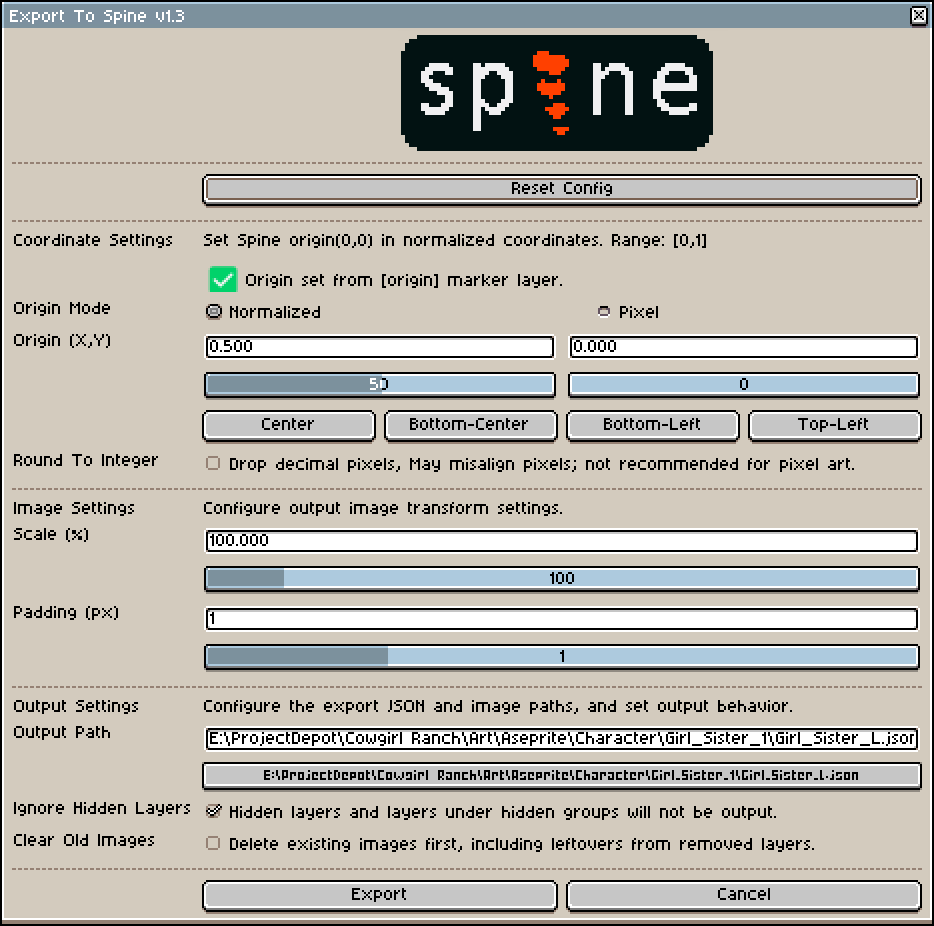
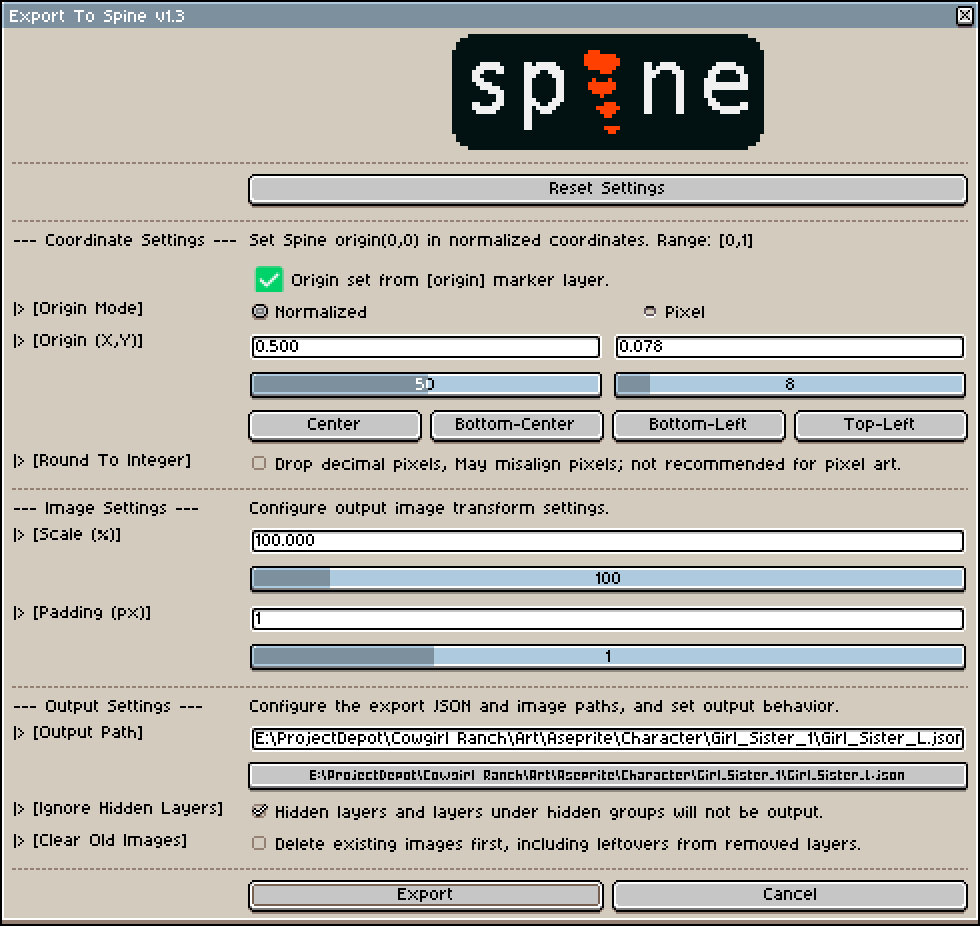
[Aseprite] Update README to v1.3.1 - Update the document content to v1.3.1 - Optimize UI layout and display.

diff --git a/aseprite/README.md b/aseprite/README.md
@@ -6,11 +6,15 @@ ___
 
 [中文版 文档](README_cn.md)
 
+<div align="center">
+  <img src="Images/Spine-Logo.png" width="60%" alt="Spine Logo">
+</div>
+
 # aseprite-to-spine
 
 ## Lua Script for importing Aseprite projects into Spine
 
-## v1.3
+## v1.3.1
 
 ### Installation
 
@@ -69,7 +73,6 @@ After following these steps, the "Prepare-For-Spine" script should show up in th
 
 * Action Buttons: Start export using the current configuration.
   * Export Button: Starts the export process with the configured options.
-    * After export completes, click the [Open File Folder] button to open the directory containing the exported files.
   * Cancel Button: Closes the options dialog without exporting.
 
 #### 「Spine Import」
@@ -97,6 +100,25 @@ After following these steps, the "Prepare-For-Spine" script should show up in th
 * Import button: Start importing with the current configuration.
 * Cancel button: Close the dialog and cancel the import.
 
+#### 「Spine Settings」
+
+When creating pixel art, it is usually necessary to turn off smoothing/anti-aliasing to maintain the clarity of the pixel grains.
+
+1. Click the Spine icon in the upper left corner to open the menu and select **[Settings]**.
+2. In the Settings window, select **[Viewport]** from the menu on the left.
+3. In the Viewport settings on the right, find the **[Smoothing]** option and set the smoothing value to 0.
+![alt text](Images/image-3.png)
+
+#### 「Spine Export」
+
+When exporting, images are usually packed into an atlas. To ensure the clarity of pixel art, you need to adjust the export settings for the atlas.
+
+1. Click the Spine icon in the upper left corner to open the menu and select **[Export]**.
+2. If you need to pack an atlas, click the **[Pack Settings]** button to open the atlas settings.
+![alt text](Images/image-4.png)
+3. Set both **[Filter min]** and **[Filter mag]** to **[Nearest]** to ensure the clarity of the pixel grains.
+![alt text](Images/image-5.png)
+
 ### Known Issues
 
 * Opening the exported file location currently relies on `os` library APIs and may cause a brief UI stall (a few seconds).
@@ -104,6 +126,18 @@ After following these steps, the "Prepare-For-Spine" script should show up in th
 * New layers added in Aseprite may have incorrect draw order when imported into an existing Spine skeleton, and need to be adjusted manually in Spine.
 
 ### Version History
+
+#### v1.3.1
+
+* Refine core logic and optimize asset management
+  * Replace os.execute shell calls with pure Lua filesystem APIs.
+  * Embed Spine logo as RLE data, add regeneration tool.
+  * Optimize UI layout and display.
+* Fix critical bugs and improve export stability
+  * Fix rounding: use math.floor instead of math.modf (truncation).
+  * Fix crash when exporting layers with no cels (empty layers).
+  * Fix PNG layers warning by flattening cloned sprite before save.
+  * Rename config cache extension from .json to .txt (not JSON format).
 
 #### v1.3
 

diff --git a/aseprite/README_cn.md b/aseprite/README_cn.md
@@ -6,11 +6,15 @@ ___
 
 [English README](README.md)
 
+<div align="center">
+  <img src="Images/Spine-Logo.png" width="60%" alt="Spine Logo">
+</div>
+
 # aseprite-to-spine
 
 ## 用于将 Aseprite 项目导入 Spine 的 Lua 脚本
 
-## v1.3
+## v1.3.1
 
 ### 安装
 
@@ -69,7 +73,6 @@ ___
 
 * 执行按钮： 使用当前配置 开始导出。
   * Export 按钮：使用当前配置 开始导出。
-    * 导出完成后，可点击 [Open File Folder] 按钮直接 打开导出目录。
   * Cancel 按钮：关闭选项弹窗并 取消导出。
 
 #### 「Spine 导入」
@@ -97,6 +100,25 @@ ___
 * Import 按钮：使用当前配置 开始导入。
 * Cancel 按钮：关闭对话框并 取消导入。
 
+#### 「Spine 设置」
+
+在制作像素艺术时，通常需要 关闭平滑抗锯齿，以保持 像素颗粒的清晰度。
+
+1. 点击左上角 Spine图标 打开菜单，选择 **[Settings]**。
+2. 在 Settings窗口 的左侧菜单中，选择 **[Viewport]**。
+3. 在右侧的 Viewport 设置中，找到 **[Smoothing]** 选项，将平滑值设置为0。
+![alt text](Images/image-3.png)
+
+#### 「Spine 导出」
+
+在导出时，一般会将图片 打包为图集。为了保证 像素艺术的 像素颗粒的 清晰度，需要对 图集的导出设置 进行调整。
+
+1. 点击左上角 Spine图标 打开菜单，选择 **[Export]**。
+2. 需要打包图集时，点击 **[Pack Settings]** 按钮，打开 图集设置。
+![alt text](Images/image-4.png)
+3. 将**[Filter min]**与**[Filter mag]** 都设置为 **[Nearest]**，以保证 像素颗粒的清晰度。
+![alt text](Images/image-5.png)
+
 ### 已知问题
 
 * 打开 导出文件位置，目前依赖 `os` 库 API，可能导致短暂 UI 卡顿（几秒）。
@@ -104,6 +126,18 @@ ___
 * Aseprite 中新增的图层，在导入到 Spine 的现有骨架时，可能会出现 绘制顺序不正确 的问题，需要在 Spine 中手动调整。
 
 ### 版本历史
+
+#### v1.3.1
+
+* 优化核心逻辑与资产管理
+  * 使用纯 Lua 文件系统 API 替换 os.execute 命令行调用。
+  * 将 Spine 徽标嵌入为 RLE 数据，并添加重新生成工具。
+  * 优化了UI界面的布局与显示效果。
+* 修复关键缺陷并提升导出稳定性
+  * 修复舍入问题：使用 math.floor 代替 math.modf（截断）。
+  * 修复导出不包含像素单元的图层（空图层）时发生的崩溃。
+  * 通过在保存前合并克隆后的精灵，修复 PNG 图层警告。
+  * 将配置缓存的扩展名从 .json 重命名为 .txt（其并非 JSON 格式）。
 
 #### v1.3
 
